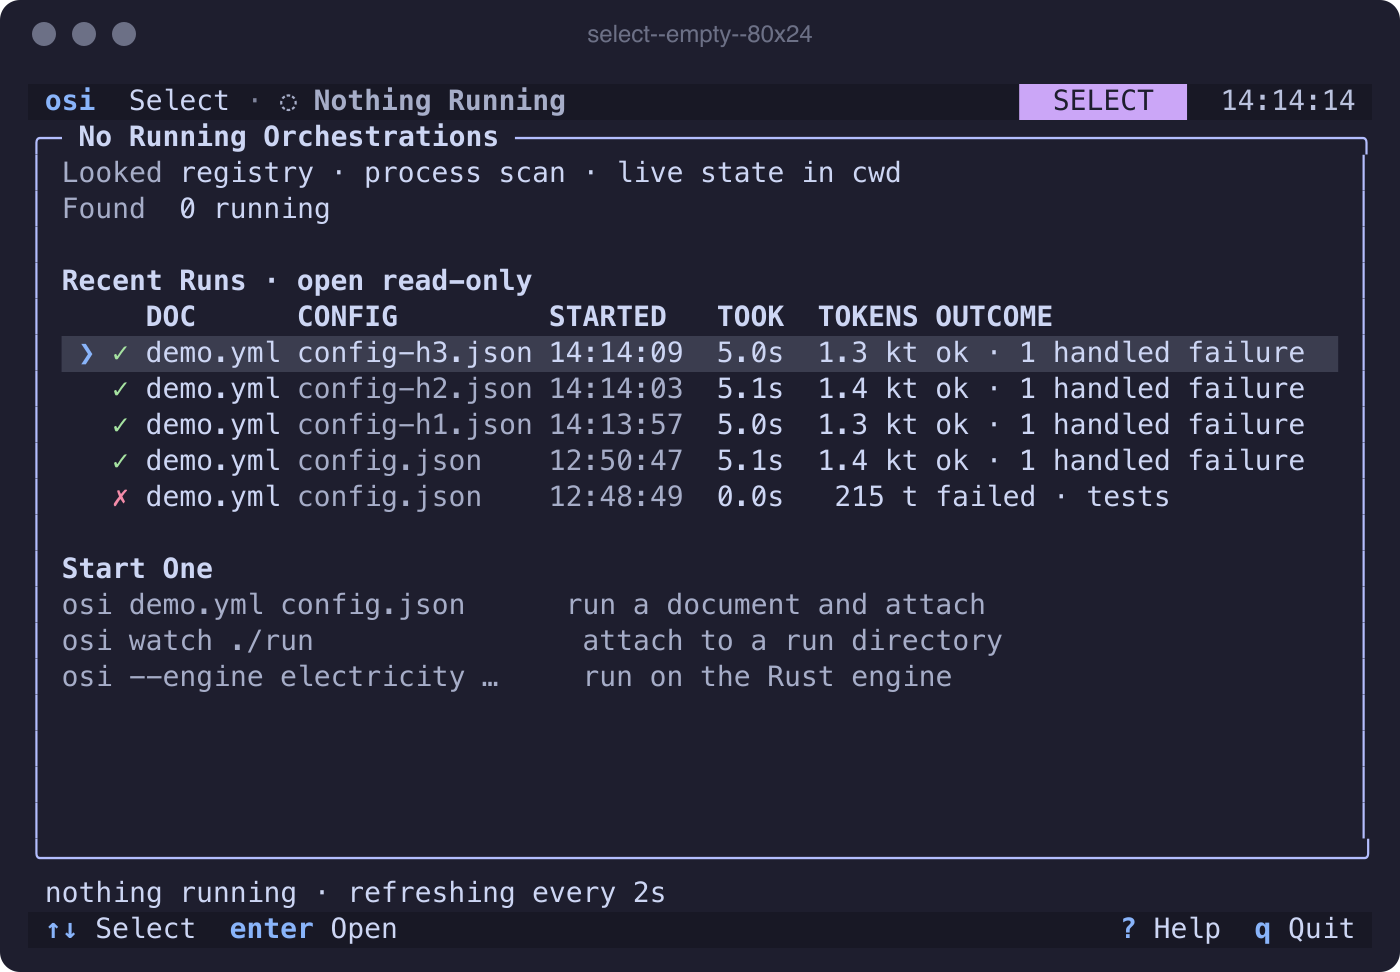
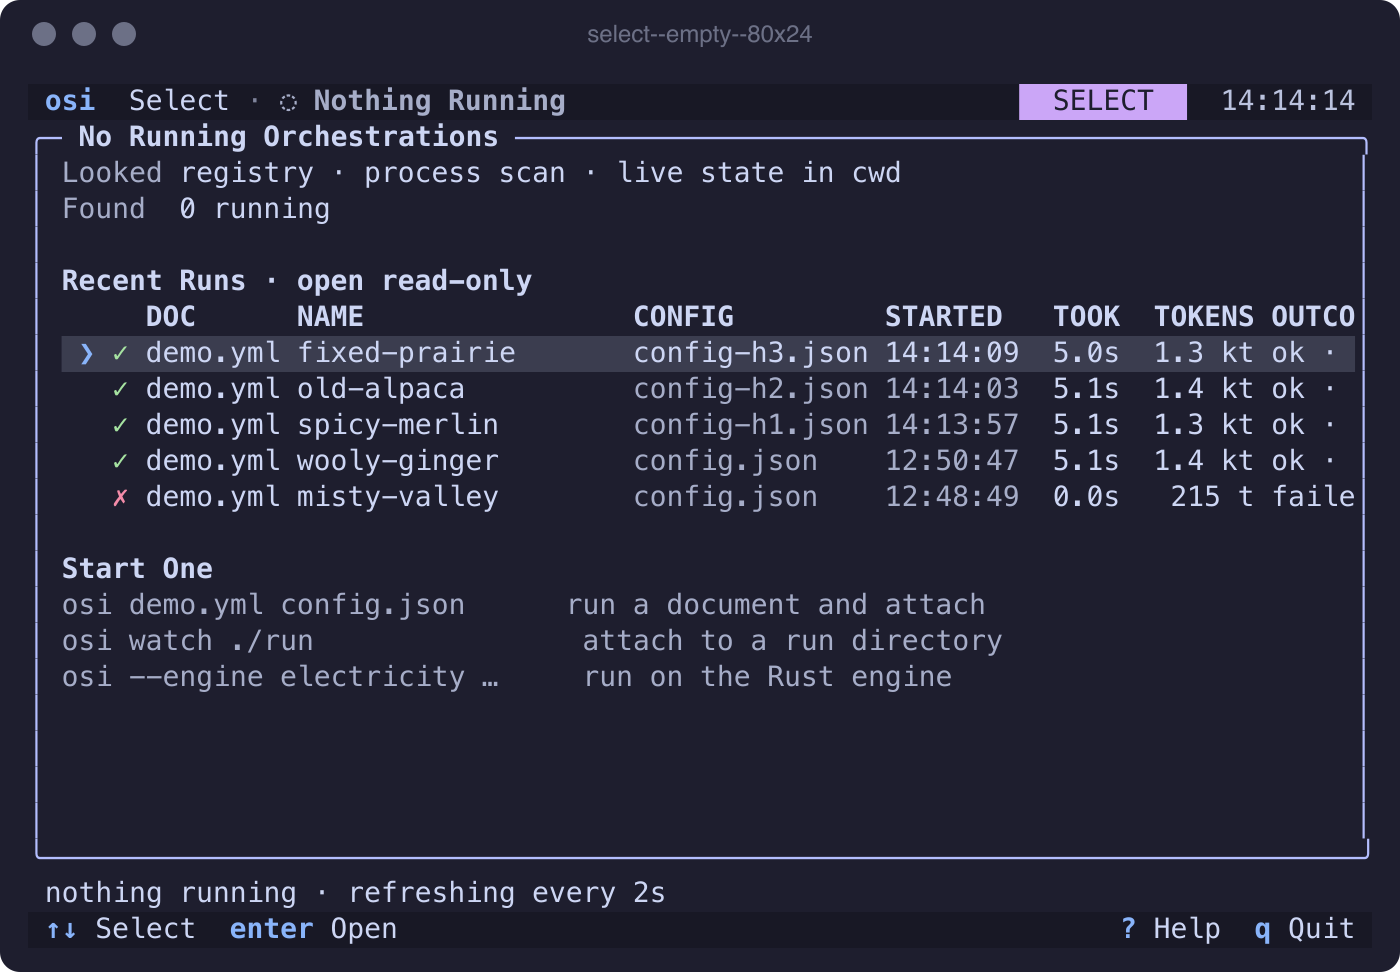
fix(osi): the All tile band keeps document and config adjacent, the name after
Reorders the tile band's own spans so the document's config still sits
right next to it (every other probe and script already reads the two
together); the run's own name moves after the config instead of between
them. Also widens Recent Runs' own NAME column from a frame-measured 14
to the full 20-wide field Select's running list already uses, so a
name at the full 14-15 character length no longer runs straight into
CONFIG with no separating space.

Changed region(s): [[0.215, 0.3086, 0.9829, 0.5247]]

diff --git a/oscilloscope/crates/oscilloscope/src/tui.rs b/oscilloscope/crates/oscilloscope/src/tui.rs
@@ -4177,7 +4177,7 @@ fn draw_select_empty_panel(
             height: 1,
         },
         vec![Span::styled(
-            "      DOC      NAME          CONFIG         STARTED   TOOK  TOKENS OUTCOME",
+            "      DOC      NAME                CONFIG         STARTED   TOOK  TOKENS OUTCOME",
             header_style,
         )],
     );
@@ -4255,13 +4255,15 @@ fn render_line(frame: &mut Frame, rect: Rect, spans: Vec<Span<'static>>) {
 }
 
 /// One Recent Runs row's own spans (issue #698): DOC(9) NAME(14,
-/// issue #717) CONFIG(15) STARTED(10) then TOOK+TOKENS combined
-/// (13, `{:<5}{:>7} `) and OUTCOME -- field widths measured from
-/// `design/frames/select--empty--80x24`. At this width there is no
-/// slack left for NAME without something giving way, so the far
-/// right of OUTCOME is what gives: a terminal narrower than the
-/// row's own full content simply clips it, the same as every other
-/// field here already would.
+/// issue #717, [`SELECT_NAME_COL_WIDTH`] again so the longest
+/// possible name plus its collision suffix never runs into the next
+/// column) CONFIG(15) STARTED(10) then TOOK+TOKENS combined
+/// (13, `{:<5}{:>7} `) and OUTCOME -- the other field widths
+/// measured from `design/frames/select--empty--80x24`. At this
+/// width there is no slack left for NAME without something giving
+/// way, so the far right of OUTCOME is what gives: a terminal
+/// narrower than the row's own full content simply clips it, the
+/// same as every other field here already would.
 fn recent_row_spans(
     row: &oscilloscope_core::select::RecentRow,
     selected: bool,
@@ -4279,7 +4281,7 @@ fn recent_row_spans(
     let started =
         oscilloscope_core::format::format_clock_time(&row.started_at, zone).unwrap_or_default();
     let doc_field = format!("{:<9}", row.document_label);
-    let name_field = format!("{:<14}", row.name);
+    let name_field = format!("{:<nw$}", row.name, nw = SELECT_NAME_COL_WIDTH);
     let config_field = format!("{config_text:<15}");
     let started_field = format!("{started:<10}");
     let tokens_text = oscilloscope_core::format::format_tokens(row.tokens);
@@ -4657,8 +4659,9 @@ fn draw_all_status_line(
 }
 
 /// One tile's own mini document band (§2.6): `triage.yml
-/// config-triage.json · ● 2.2s   cof`, on the statusbar colours, the
-/// same band style the main header uses but scoped to one run.
+/// config-triage.json swift-eagle · ● 2.2s   cof` (the name, issue
+/// #717, after the config), on the statusbar colours, the same band
+/// style the main header uses but scoped to one run.
 fn draw_all_tile_band(frame: &mut Frame, area: Rect, tile: &AllTile, ctx: &DrawCtx) {
     let bg = ctx.theme.statusbar_bg;
     let base = Style::default().bg(bg).fg(ctx.theme.statusbar_fg);
@@ -4680,8 +4683,8 @@ fn draw_all_tile_band(frame: &mut Frame, area: Rect, tile: &AllTile, ctx: &DrawC
         .unwrap_or(&header.engine)
         .to_string();
     let right_text = format!("{engine_word} ");
-    // Issue #717: the name comes right after the document and is
-    // never dropped; when the band is too narrow for everything,
+    // Issue #717: the name follows the document and its config, and
+    // is never dropped; when the band is too narrow for everything,
     // the config -- already optional -- gives way first.
     let build = |show_config: bool| -> Vec<Span<'static>> {
         let config_text = if show_config {
@@ -4700,11 +4703,11 @@ fn draw_all_tile_band(frame: &mut Frame, area: Rect, tile: &AllTile, ctx: &DrawC
                     .bg(bg)
                     .add_modifier(Modifier::BOLD),
             ),
+            Span::styled(config_text, Style::default().fg(ctx.theme.fg_muted).bg(bg)),
             Span::styled(
                 name_text.clone(),
                 Style::default().fg(ctx.theme.text).bg(bg),
             ),
-            Span::styled(config_text, Style::default().fg(ctx.theme.fg_muted).bg(bg)),
             Span::styled("· ", Style::default().fg(ctx.theme.dim).bg(bg)),
             Span::styled(
                 format!("{glyph} "),

diff --git a/oscilloscope/design/tui-design.md b/oscilloscope/design/tui-design.md
@@ -463,12 +463,12 @@ the three ways to start one:
 │ Found  0 running                                                             │
 │                                                                              │
 │ Recent Runs · open read-only                                                 │
-│      DOC      NAME          CONFIG         STARTED   TOOK  TOKENS OUTCOME    │
-│  ❯ ✓ demo.yml fixed-prairie config-h3.json 14:14:09  5.0s  1.3 kt ok · 1 hand│
-│    ✓ demo.yml old-alpaca    config-h2.json 14:14:03  5.1s  1.4 kt ok · 1 hand│
-│    ✓ demo.yml spicy-merlin  config-h1.json 14:13:57  5.1s  1.3 kt ok · 1 hand│
-│    ✓ demo.yml wooly-ginger  config.json    12:50:47  5.1s  1.4 kt ok · 1 hand│
-│    ✗ demo.yml misty-valley  config.json    12:48:49  0.0s   215 t failed · te│
+│      DOC      NAME                CONFIG         STARTED   TOOK  TOKENS OUTCO│
+│  ❯ ✓ demo.yml fixed-prairie       config-h3.json 14:14:09  5.0s  1.3 kt ok · │
+│    ✓ demo.yml old-alpaca          config-h2.json 14:14:03  5.1s  1.4 kt ok · │
+│    ✓ demo.yml spicy-merlin        config-h1.json 14:13:57  5.1s  1.3 kt ok · │
+│    ✓ demo.yml wooly-ginger        config.json    12:50:47  5.1s  1.4 kt ok · │
+│    ✗ demo.yml misty-valley        config.json    12:48:49  0.0s   215 t faile│
 │                                                                              │
 │ Start One                                                                    │
 │ osi demo.yml config.json      run a document and attach                      │
@@ -495,8 +495,8 @@ clips at the border.
 **The grid.** One full osi per running orchestration. Columns are as many 56-cell tiles as fit the width, rows as
 many as the runs need, then fewer columns when that leaves fewer empty cells (six runs at 180×48 make 3 × 2; four
 make 2 × 2; three make one row). A tile is at least 56×20. Each tile has its own header band, `triage.yml
-swift-eagle config-triage.json · ● 2.2s   cof` (the name, §3.1, right after the document); the config gives
-way first when the band is too narrow for all three. Each tile also has its own panel and its own Totals row.
+config-triage.json swift-eagle · ● 2.2s   cof` (the name, §3.1, after the config); the config gives way first
+when the band is too narrow for all three. Each tile also has its own panel and its own Totals row.
 
 **One screen for every tile.** `0`–`3` switch the screen of every tile at once, so `1` turns the wall into
 Signal tiles on one shared scale. Arrows move the focus (the focused tile has the accent border and the
